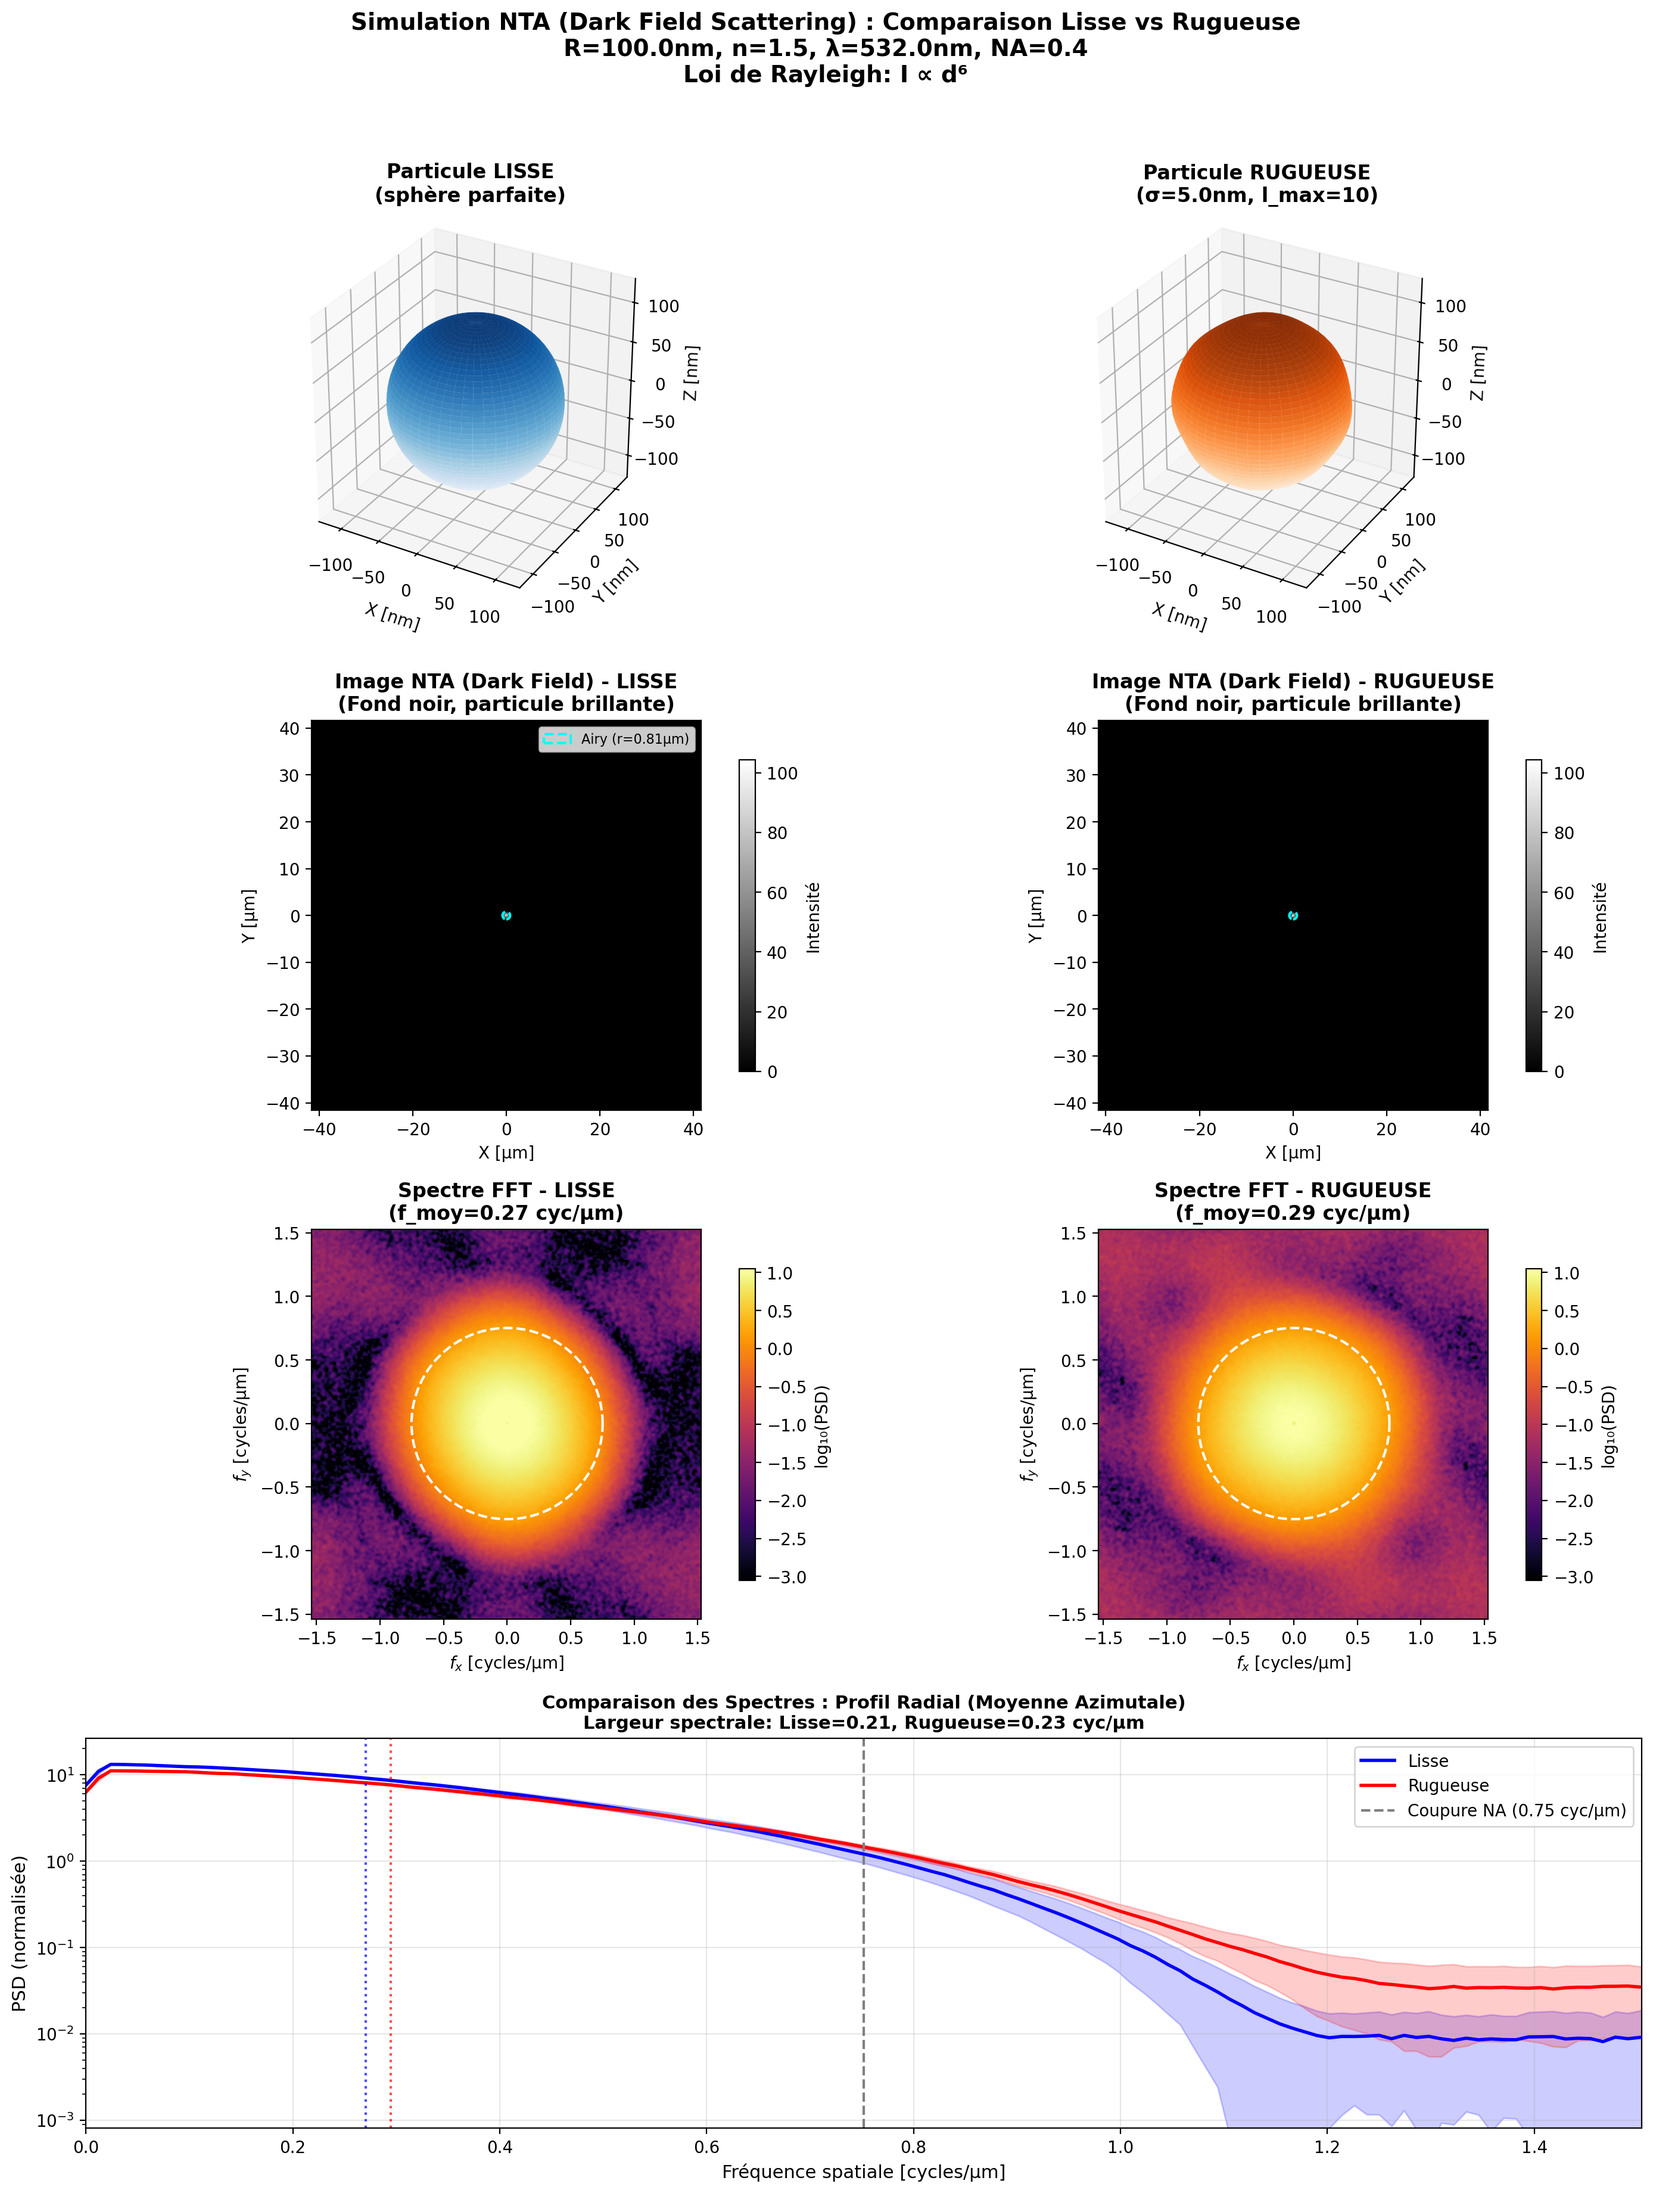
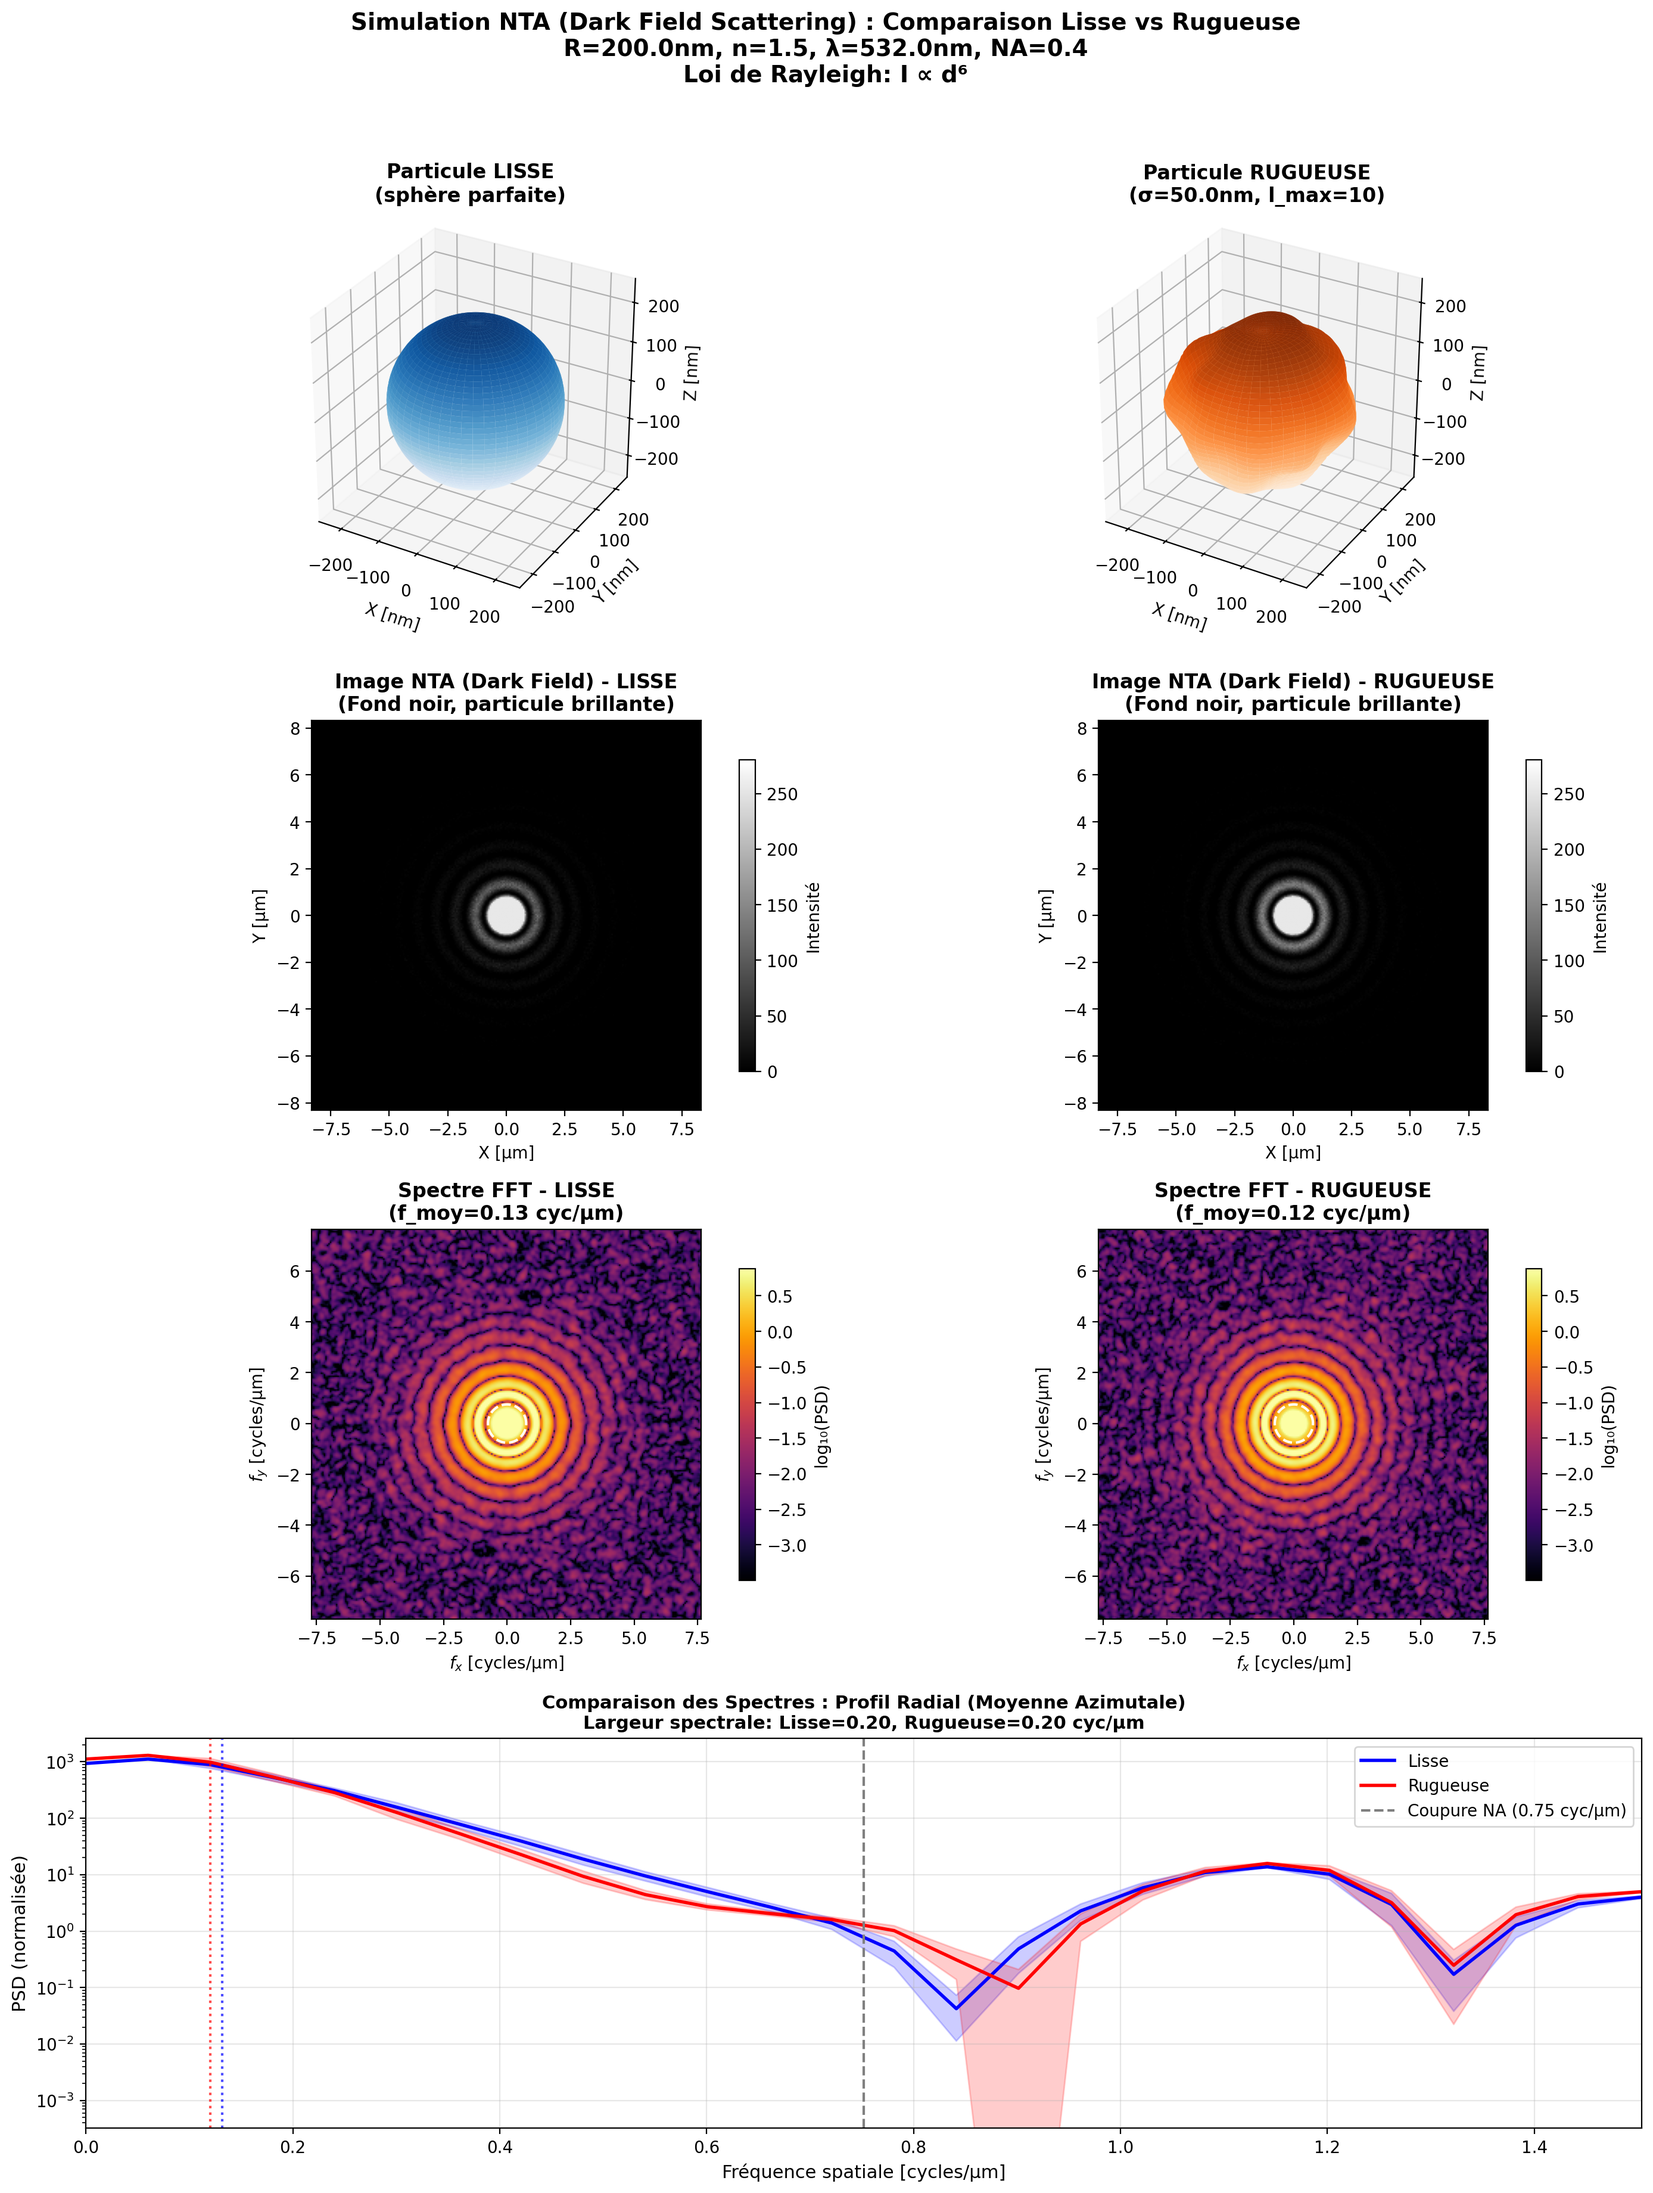
Update magnification settings and remove unused circle annotations in imaging comparisons

diff --git a/nta_simulation.py b/nta_simulation.py
@@ -202,7 +202,7 @@ class LaserParameters:
 class ImagingParameters:
     """Paramètres d'imagerie en fond noir pour NTA."""
     numerical_aperture: float = 0.4       # NA typique pour NTA
-    magnification: float = 20.0           # Grossissement
+    magnification: float = 100.0          # Grossissement (zoom sur particule)
     camera_pixel_size_um: float = 6.5     # Taille pixel CMOS
     image_pixels: int = 256               # Résolution image
     exposure_time_ms: float = 30.0        # Temps d'exposition
@@ -798,13 +798,6 @@ def run_comparison(
     ax3.set_title('Image NTA (Dark Field) - LISSE\n(Fond noir, particule brillante)', fontweight='bold')
     plt.colorbar(im3, ax=ax3, label='Intensité', shrink=0.8)
     
-    # Ajouter cercle pour montrer la taille de l'Airy disk
-    airy_r = 0.61 * (wavelength_nm/1000) / numerical_aperture
-    circle = plt.Circle((0, 0), airy_r, fill=False, color='cyan', 
-                        linestyle='--', linewidth=1.5, label=f'Airy (r={airy_r:.2f}µm)')
-    ax3.add_patch(circle)
-    ax3.legend(loc='upper right', fontsize=8)
-    
     # Colonne 2 : Image rugueuse
     ax4 = fig.add_subplot(4, 2, 4)
     im4 = ax4.imshow(img_rough.T, origin='lower', extent=extent_img,
@@ -813,9 +806,6 @@ def run_comparison(
     ax4.set_ylabel('Y [μm]')
     ax4.set_title('Image NTA (Dark Field) - RUGUEUSE\n(Fond noir, particule brillante)', fontweight='bold')
     plt.colorbar(im4, ax=ax4, label='Intensité', shrink=0.8)
-    circle2 = plt.Circle((0, 0), airy_r, fill=False, color='cyan', 
-                         linestyle='--', linewidth=1.5)
-    ax4.add_patch(circle2)
     
     # =====================================================================
     # LIGNE 3 : ANALYSE SPECTRALE (FFT)

diff --git a/videodrop_simulation.py b/videodrop_simulation.py
@@ -183,7 +183,7 @@ class IlluminationParameters:
 @dataclass
 class ImagingParameters:
     numerical_aperture: float = 0.3
-    magnification: float = 200.0            # Fort zoom sur la particule
+    magnification: float = 50.0             # Dézoom ×4 (était 200)
     camera_pixel_size_um: float = 6.5
     image_pixels: int = 256                  # Résolution augmentée
     reference_amplitude: float = 1.0
